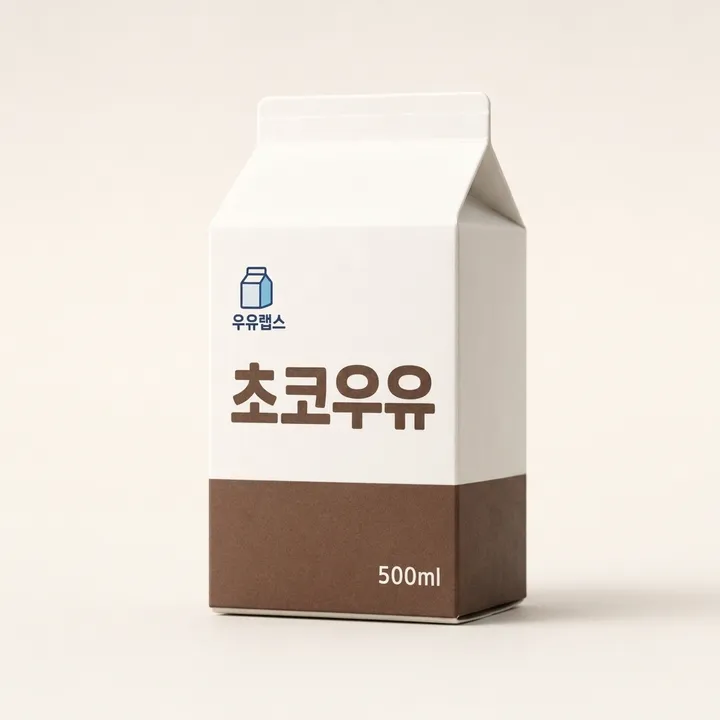
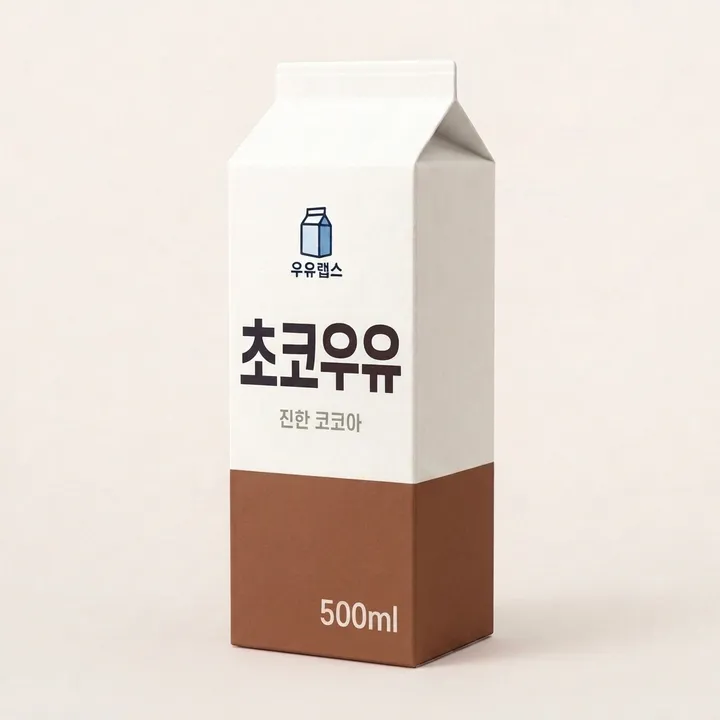
fix(web): every carton now shares one master layout — same mark, same band height
우유갑마다 표식과 띠의 높이가 달라 같은 제품군으로 안 보였다(사용자: "로고 위치가 우유팩마다 제각각이라
너무 부자연스럽다"). 넉 장을 따로 만들었으니 판면이 제각각이 된 것이다.

흰우유 한 장을 기준으로 삼고 나머지 셋은 **띠 색과 글자만** 바꿔 만들었다. 편집은 있는 그림을 옮기므로 갑의 각도·
크기·표식의 자리·띠의 높이가 바이트 수준으로 같다. 부제도 줄을 맞췄다(1등급 원유 100% · 지방 2% · 진한 코코아 ·
딸기 과즙 10%).

대가는 500ml 이 1L 과 같은 갑 모양이라는 것이다 — 용량은 포장의 글자와 카드가 말한다. 모양을 줄이려면 판면이
다시 흔들리므로, 한 제품군으로 읽히는 쪽을 골랐다. README 의 규칙에 "우유갑은 기준 한 장에서 파생한다" 를 적었다.

초코우유는 한 번 `초코유` 로 나와 다시 만들었다.

Changed region(s): [[0.275, 0.0917, 0.825, 0.9472]]

diff --git a/README.md b/README.md
@@ -48,7 +48,9 @@ Next.js 16 · React 19 · Tailwind 4. 데이터베이스가 없습니다 — 재
 - **360px 폭에서도 가로 스크롤 없이 주문이 끝납니다.**
 - **동작하지 않는 장식은 두지 않습니다.** 검색·로그인·찜은 없습니다 — 이 가게에 없는 기능입니다.
 
-상품 사진과 배너는 이미지 모델로 만든 것입니다(실제 상품이 아닙니다). 포장의 그림과 글자도 사진과 함께 생성한 것이라 **표식은 우유랩스 로고를 닮게 그린 것이지 로고 파일 그대로가 아닙니다** — 로고 파일을 사진 위에 합성해 보았더니 조명과 종이 결이 맞지 않아 스티커처럼 떠 보였습니다. 새 상품을 더할 때 지킬 것은 넷입니다: 같은 배경과 조명, **우유갑은 비스듬히·통과 병은 정면으로**(원통은 돌리면 라벨의 글자가 깨집니다), 인쇄가 포장 면의 각도를 따라갈 것, **표식은 작게**(포장 너비의 5분의 1 안쪽) 두고 제품명을 가장 크게 둘 것.
+상품 사진과 배너는 이미지 모델로 만든 것입니다(실제 상품이 아닙니다). 포장의 그림과 글자도 사진과 함께 생성한 것이라 **표식은 우유랩스 로고를 닮게 그린 것이지 로고 파일 그대로가 아닙니다** — 로고 파일을 사진 위에 합성해 보았더니 조명과 종이 결이 맞지 않아 스티커처럼 떠 보였습니다. **우유갑 넉 장은 한 장에서 나왔습니다** — 기준 사진 하나를 두고 띠 색과 글자만 바꿉니다. 그래야 표식과 띠의 높이가 사진마다 어긋나지 않습니다(각자 만들었더니 제각각이었습니다). 대신 500ml 도 1L 과 같은 갑 모양입니다 — 용량은 포장의 글자와 카드가 말합니다.
+
+새 상품을 더할 때 지킬 것은 넷입니다: 같은 배경과 조명, **우유갑은 비스듬히·통과 병은 정면으로**(원통은 돌리면 라벨의 글자가 깨집니다), 인쇄가 포장 면의 각도를 따라갈 것, **표식은 작게**(포장 너비의 5분의 1 안쪽) 두고 제품명을 가장 크게 둘 것.
 
 ## 우유팩 튜토리얼
 
